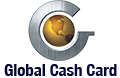
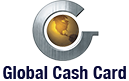
adjusted gcc.png in ps then restyled it in footer

diff --git a/htdocs/index.html b/htdocs/index.html
@@ -79,9 +79,6 @@
                     </ol>
                    <!-- Carousel items -->
                     <div class="carousel-inner">
-                        <!-- <div class="active item">
-                            <h3 class="specialized lg-slider">Rack Supported Buildings</h3>
-                        </div> -->
                         <div class="active item">
                             <h3 class="specialized">Shelving</h3>
                         </div>
@@ -137,7 +134,7 @@
             </div>
             <div class="container"><div class="row"><hr class="space col-center col-lg-5 col-md-6 col-sm-8 col-xs-8"></div></div>
             <div class="about-us-quote col-center col-lg-11 col-md-11 col-sm-12 col-xs-12">
-              <p><span class="quote">&#34;</span>We have won our customers&#39; trust through our reasonable pricing, considerate and meticulous services, and most importantly the capability of being able to deliver a project safely and on time<span class="quote">&#34;</span></p>
+              <p><span class="quote">&#34;</span>We have won our customers&#39; trust through our reasonable pricing, considerate and meticulous services, and most importantly the capability of being able to deliver a project safely and on time.<span class="quote">&#34;</span></p>
             </div>
           </div> <!-- end row -->
         </div> <!-- end container -->

diff --git a/htdocs/styles/styles.css b/htdocs/styles/styles.css
@@ -377,7 +377,7 @@ body>.container{
   padding:35px 0px 0px 0px;
   }
   .footer-contact{
-  padding:35px 0px 0px 50px;
+  padding:35px 0px 0px 0px;
   }
   #map{
     width:250px;
@@ -420,7 +420,7 @@ body>.container{
 }
 */
 .footer-contact img{
-  width:95px;
-  height:68px;
-  margin-left:20px;
+  width:100px;
+  height:58px;
+  margin:5px 0 0 15px;
 }
